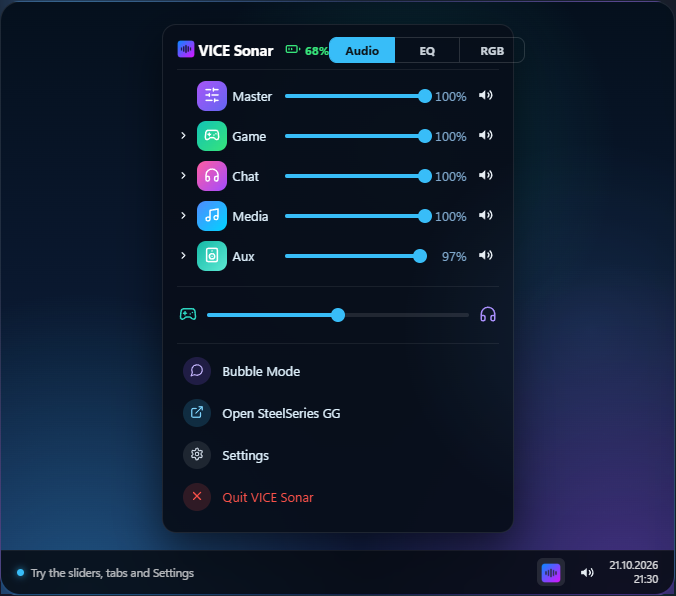
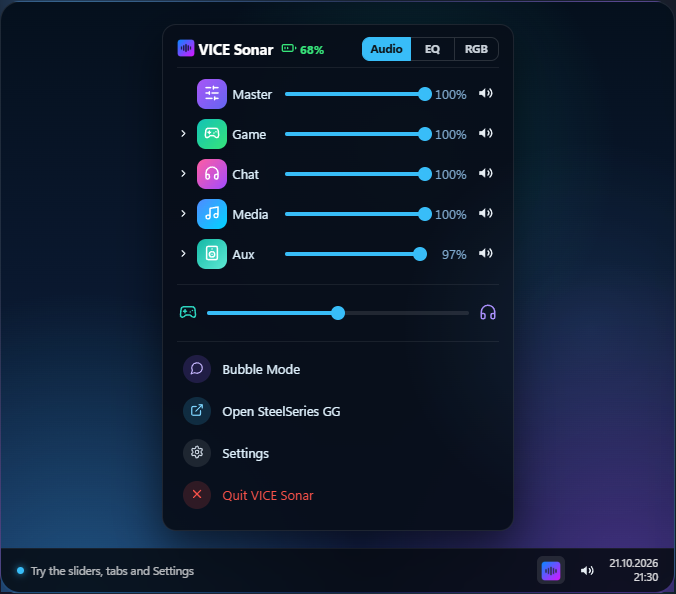
Keep the VICE Sonar demo tabs inside the flyout

diff --git a/sonar-demo/sonar-demo.js b/sonar-demo/sonar-demo.js
@@ -64,9 +64,9 @@
 .vs-hdr{display:flex;align-items:center;margin-bottom:4px}
 .vs-hdr img{width:18px;height:18px;margin-right:4px;border-radius:4px}
 .vs-hdr b{font-size:14.5px;font-weight:700;color:#fff;white-space:nowrap}
-.vs-batt{display:flex;align-items:center;gap:4px;margin-left:12px;font-size:12px;font-weight:700;color:#37e57a}
+.vs-batt{display:flex;align-items:center;gap:3px;margin-left:8px;font-size:12px;font-weight:700;color:#37e57a}
 .vs-seg{display:flex;margin-left:auto}
-.vs-seg button{all:unset;height:24px;min-width:48px;padding:0 8px;text-align:center;font-size:12px;font-weight:700;color:#C9D1D9;border:1px solid rgba(255,255,255,.14);border-left-width:0;transition:background .15s,color .15s}
+.vs-seg button{all:unset;box-sizing:border-box;height:24px;min-width:44px;padding:0 7px;text-align:center;font-size:11.5px;font-weight:700;color:#C9D1D9;border:1px solid rgba(255,255,255,.14);border-left-width:0;transition:background .15s,color .15s}
 .vs-seg button:first-child{border-left-width:1px;border-radius:8px 0 0 8px}
 .vs-seg button:last-child{border-radius:0 8px 8px 0}
 .vs-seg button.on{background:${AC};border-color:${AC};color:#0d1418}
